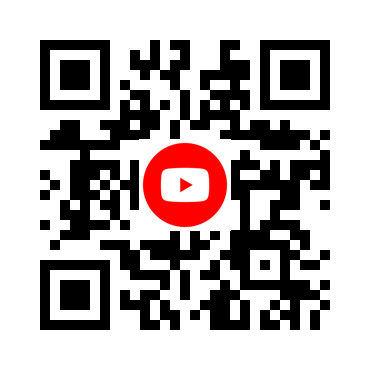
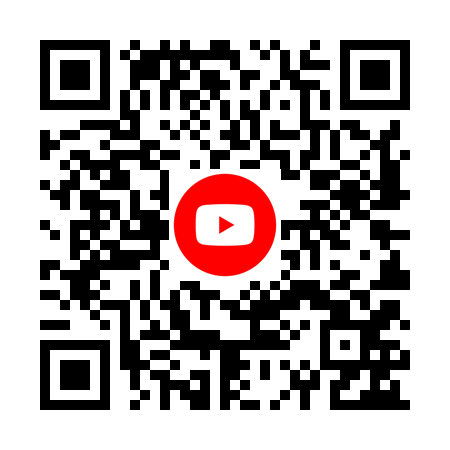
finish projec, but i need to correct errors

diff --git a/fastApi.py b/fastApi.py
@@ -1,0 +1,93 @@
+"""
+FastAPI for create servidor
+Request for read information of client
+HTTPException for throw errors with HTTP codes
+"""
+from fastapi import FastAPI, Request, HTTPException
+# for redirect to other URL
+from fastapi.responses import RedirectResponse
+# for connect with DB
+import sqlite3
+# for get results of others APIs
+import requests
+# for get the time
+from datetime import datetime
+
+app = FastAPI()
+
+def get_db():
+    # check_same_thread=False this is for don't have error in diferents conexions
+    conn = sqlite3.connect("mi_base.db", check_same_thread=False)
+    # this is for get rows by name 
+    conn.row_factory = sqlite3.Row
+    return conn
+
+# for get the data
+def get_geo_ip(ip):
+    try:
+        url = f"https://ipapi.co/{ip}/json/"
+        # timeout=5 avoid error in the API
+        response = requests.get(url, timeout=5)
+        data = response.json()
+
+        return {
+            "country": data.get("country_name"),
+            "city": data.get("city"),
+            "latitude": data.get("latitude"),
+            "longitude": data.get("longitude")
+        }
+    except:
+        return None
+
+@app.get("/qr-link/{qr_id}")
+async def scan_qr(qr_id: str, request: Request):
+    try:
+        # 1. get IP
+        ip_client = request.client.host
+
+        # print(ip_client)
+
+        # 2. get User-Agent (type of device)
+        user_agent = request.headers.get("user-agent")
+
+        # 3. get geolocation for IP
+        geo = get_geo_ip(ip_client)
+
+        # 4. Conexión BD
+        db = get_db()
+        cursor = db.cursor()
+
+        # 5. get original URL
+        cursor.execute("SELECT destination_url FROM qrs WHERE unique_id = ?", (qr_id,))
+        # return first row
+        data = cursor.fetchone()
+
+        if not data:
+            raise HTTPException(status_code=404, detail="QR no encontrado")
+
+        url_destino = data["destination_url"]
+        present_date = datetime.now()
+
+        # 6. Guardar los datos del escaneo
+        cursor.execute("""
+            INSERT INTO users_scam (qr_id, ip, device, country, city, latitude, longitude, datetime)
+            VALUES (?, ?, ?, ?, ?, ?, ?, ?)
+        """, (
+            qr_id,
+            ip_client,
+            user_agent,
+            geo["country"] if geo else None,
+            geo["city"] if geo else None,
+            geo["latitude"] if geo else None,
+            geo["longitude"] if geo else None,
+            present_date
+        ))
+
+        db.commit()
+        db.close()
+
+        # 7. Redirigir
+        return RedirectResponse(url=url_destino)
+
+    except Exception as e:
+        raise HTTPException(status_code=500, detail=str(e))

diff --git a/Qr_generator.py b/Qr_generator.py
@@ -1,6 +1,20 @@
+# create Qr
 import qrcode
+# validate URL
 from urllib.parse import urlparse
+# word with images
 from PIL import Image
+import sqlite3
+# for create unique id
+import uuid
+
+# funtion for the conexion in the DB
+def get_db():
+    # check_same_thread=False this is for don't have error in diferents conexions
+    conn = sqlite3.connect("mi_base.db", check_same_thread=False)
+    # this is for get rows by name 
+    conn.row_factory = sqlite3.Row
+    return conn
 
 # function for validate url
 def validate_url(url):
@@ -11,6 +25,14 @@ def validate_url(url):
 # function for make qrs
 def qrs(url, fileName, logo_archive=None):
     if(validate_url(url)):
+        # conexion
+        db = get_db()
+        cursor = db.cursor()
+
+        # create unique id
+        unique_id = uuid.uuid4().hex[:12]
+        server_url = f"http://127.0.0.1:8000/qr-link/{unique_id}"
+
         # advanced settings
         qr_code = qrcode.QRCode(
             # size of qr
@@ -24,7 +46,7 @@ def qrs(url, fileName, logo_archive=None):
         )
 
         # insert URL to image
-        qr_code.add_data(url)
+        qr_code.add_data(server_url)
         # adjust the size
         qr_code.make(fit=True)
 
@@ -57,6 +79,20 @@ def qrs(url, fileName, logo_archive=None):
         save_img = "img/" + (fileName + ".png")
         qr_img.save(save_img)
 
+        cursor.execute("""
+            INSERT INTO qrs (name_logo, name_qr, destination_url, server_url, unique_id)
+            VALUES (?, ?, ?, ?, ?)
+        """, (
+            logo_archive,
+            f"{fileName}.png",
+            url,
+            server_url,
+            unique_id
+        ))
+
+        db.commit()
+        db.close()
+
         # img = qrcode.make(url)
         # img.save(save_img)
         print("qr generado")
@@ -64,12 +100,12 @@ def qrs(url, fileName, logo_archive=None):
         print("URL mal escrita")
 
 
-# url = "https://www.youtube.com/"
-# name = "Youtube"
-# logoName = "logoYoutube.png"
+url = "https://www.youtube.com/"
+name = "Youtube"
+logoName = "logoYoutube.png"
 
-# qrs(url, name, logoName)
+qrs(url, name, logoName)
 
-url = "https://www.speedtest.net/"
-name = "Speedtest"
-qrs(url, name)
+# url = "https://www.speedtest.net/"
+# name = "Speedtest"
+# qrs(url, name)

diff --git a/database.py b/database.py
@@ -8,33 +8,54 @@ cursor = conexion.cursor()
 
 # for create a table
 cursor.execute("""
-    CREATE TABLE IF NOT EXISTS usuarios (
+    CREATE TABLE IF NOT EXISTS qrs (
         id INTEGER PRIMARY KEY AUTOINCREMENT,
-        nombre TEXT,
-        edad INTEGER
-    )
+        name_logo TEXT NOT NULL,
+        name_qr TEXT NOT NULL,
+        destination_url TEXT NOT NULL,
+        server_url TEXT NOT NULL,
+        unique_id TEXT NOT NULL
+    );
 """)
 
-# for insert
-cursor.execute("INSERT INTO usuarios (nombre, edad) VALUES (?, ?)", ("Alejandro", 20))
-cursor.execute("INSERT INTO usuarios (nombre, edad) VALUES (?, ?)", ("Maria", 22))
+cursor.execute("""
+    CREATE TABLE IF NOT EXISTS users_scam (
+        id INTEGER PRIMARY KEY AUTOINCREMENT,
+        qr_id INTEGER NOT NULL,
+        ip TEXT NOT NULL,
+        device TEXT,
+        country TEXT,
+        city TEXT,
+        latitude REAL,
+        longitude REAL,
+        datetime TEXT DEFAULT CURRENT_TIMESTAMP,
+        
+        FOREIGN KEY (qr_id) REFERENCES qrs(id)
+            ON DELETE CASCADE
+    );
+""")
 
-# for select
-print("\nUsuarios:")
-cursor.execute("SELECT * FROM usuarios")
-for fila in cursor.fetchall():
-    print(fila)
+"""Examples"""
+# # for insert
+# cursor.execute("INSERT INTO usuarios (nombre, edad) VALUES (?, ?)", ("Alejandro", 20))
+# cursor.execute("INSERT INTO usuarios (nombre, edad) VALUES (?, ?)", ("Maria", 22))
 
-# for update
-cursor.execute("UPDATE usuarios SET edad = ? WHERE nombre = ?", (21, "Alejandro"))
+# # for select
+# print("\nUsuarios:")
+# cursor.execute("SELECT * FROM usuarios")
+# for fila in cursor.fetchall():
+#     print(fila)
 
-# for delete
-cursor.execute("DELETE FROM usuarios WHERE nombre = ?", ("Alejandro",))
+# # for update
+# cursor.execute("UPDATE usuarios SET edad = ? WHERE nombre = ?", (21, "Alejandro"))
 
-print("\nUsuarios:")
-cursor.execute("SELECT * FROM usuarios")
-for fila in cursor.fetchall():
-    print(fila)
+# # for delete
+# cursor.execute("DELETE FROM usuarios WHERE nombre = ?", ("Alejandro",))
+
+# print("\nUsuarios:")
+# cursor.execute("SELECT * FROM usuarios")
+# for fila in cursor.fetchall():
+#     print(fila)
 
 # for save
 conexion.commit()
